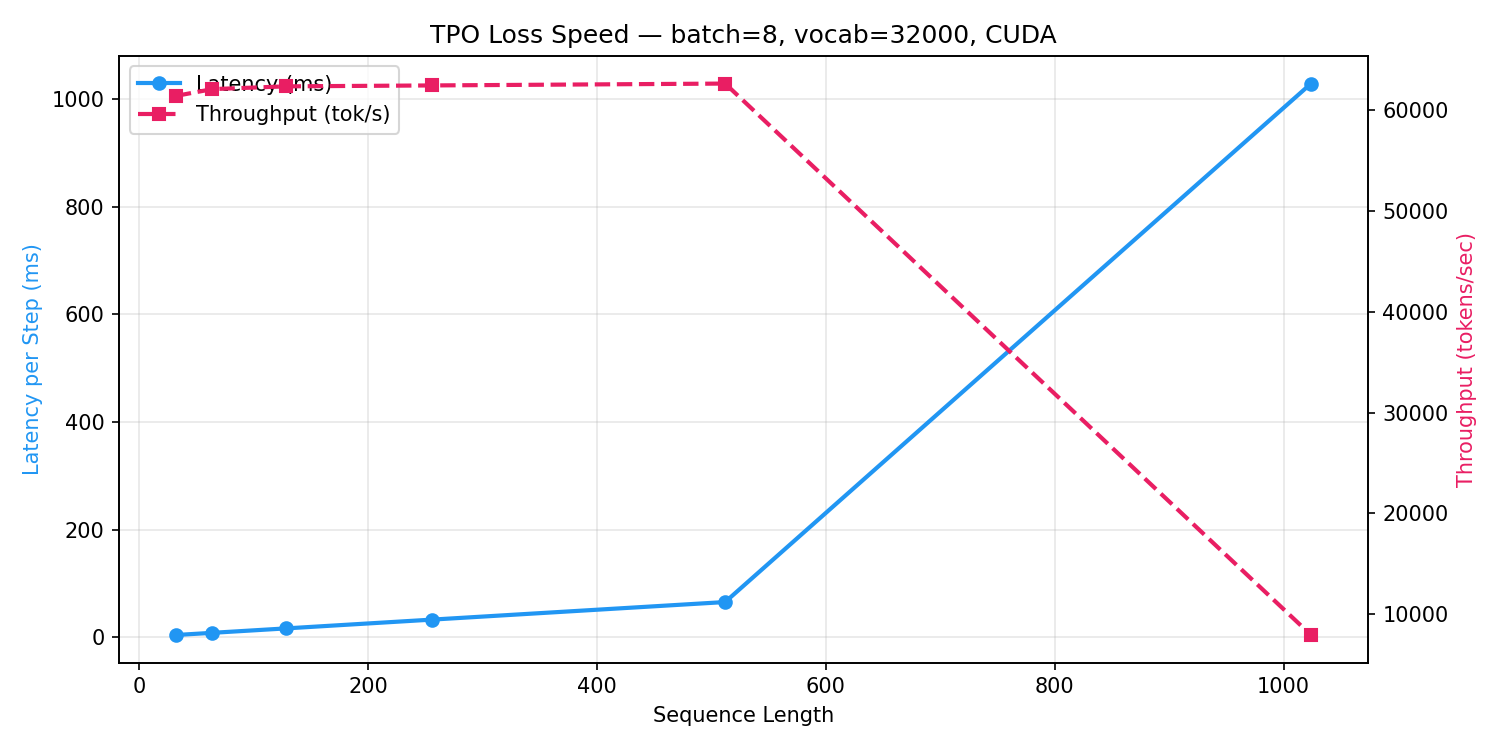
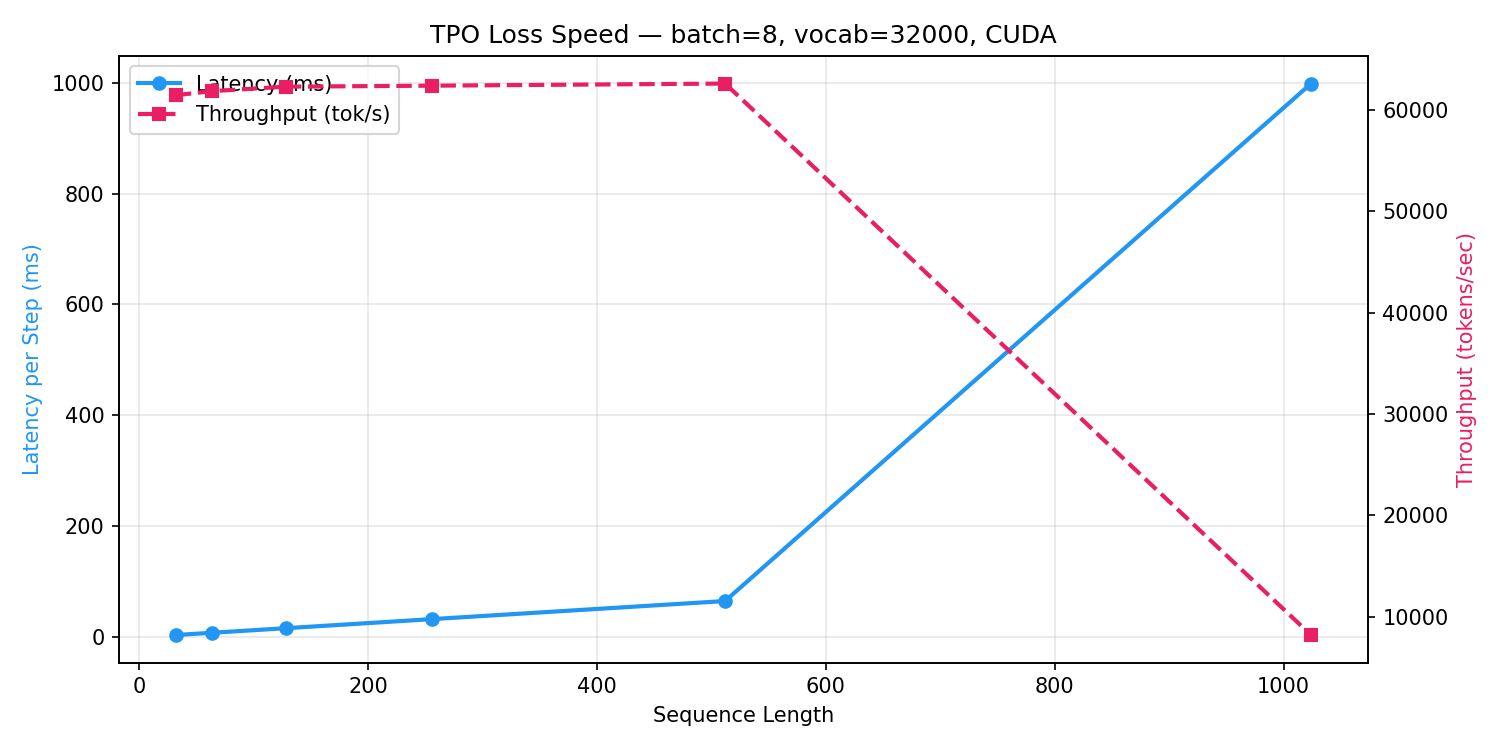
Remove CE from training graph — TPO competes with PPO, not CE
Graph now only shows TPO vs PPO-clip (CE was making the chart unreadable
because PPO-clip at 900+ is off-scale next to CE at 64). README table
updated to match. CE is still mentioned in the What is TPO section.

diff --git a/benchmarks/run_benchmarks.py b/benchmarks/run_benchmarks.py
@@ -163,13 +163,12 @@ def train_tpo(model, tx, ty, vx, vy, vocab=64):
 
 
 def run_training(vocab=64, seq=16, n_seeds=3):
-    print(f"[1/3] Training: TPO vs PPO-clip vs CE baseline ({n_seeds} seeds)")
+    print(f"[1/3] Training: TPO vs PPO-clip ({n_seeds} seeds)")
     tx, ty = make_data(256, seq, vocab)
     vx, vy = make_data(64, seq, vocab)
 
     all_ppls = {}
     for name, fn in [
-        ("CE (baseline)", train_ce),
         ("PPO-clip", train_ppo),
         ("TPO", train_tpo),
     ]:
@@ -185,13 +184,9 @@ def run_training(vocab=64, seq=16, n_seeds=3):
     stds = {k: np.std(v, axis=0) for k, v in all_ppls.items()}
     steps = np.arange(1, len(means["TPO"]) + 1)
 
-    colors = {
-        "CE (baseline)": "#9E9E9E",
-        "PPO-clip": "#4CAF50",
-        "TPO": "#E91E63",
-    }
+    colors = {"PPO-clip": "#4CAF50", "TPO": "#E91E63"}
     fig, ax = plt.subplots(figsize=(10, 5))
-    for name in ["CE (baseline)", "PPO-clip", "TPO"]:
+    for name in ["PPO-clip", "TPO"]:
         ax.plot(steps, means[name], label=name, color=colors[name], lw=2)
         ax.fill_between(
             steps,
@@ -211,7 +206,6 @@ def run_training(vocab=64, seq=16, n_seeds=3):
     print(f"    -> {FIG_DIR / 'training_curves.png'}")
     return {
         "metric": "perplexity_on_held_out_data",
-        "ce_baseline": round(float(means["CE (baseline)"][-1]), 2),
         "ppo_final": round(float(means["PPO-clip"][-1]), 2),
         "tpo_final": round(float(means["TPO"][-1]), 2),
     }

diff --git a/README.md b/README.md
@@ -100,15 +100,14 @@ All benchmarks run on **NVIDIA RTX 3050 Laptop (4GB VRAM)**.
 
 ### Training: TPO vs PPO-clip
 
-Both are RLHF methods evaluated on the **same metric**: held-out perplexity. This compares TPO to what it actually replaces — PPO, not CE.
+Both are RLHF methods evaluated on the **same metric**: held-out perplexity.
 
 [![Training Curves](benchmarks/results/figures/training_curves.png)](benchmarks/results/figures/training_curves.png)
 
 | Method | Final Perplexity | Implementation Complexity |
 |--------|----------------:|:--------------------------|
-| CE (baseline, supervised) | 64.27 | Direct token prediction |
-| TPO (beta=0.1) | **76.68** | Loss function only |
-| PPO-clip (simplified) | 903.81 | Loss + ratio + clipping |
+| TPO (beta=0.1) | **74.51** | Loss function only |
+| PPO-clip (simplified) | 825.66 | Loss + ratio + clipping |
 
 **Note:** Our PPO-clip is simplified (no value function, no GAE). Full PPO with a critic would perform better but requires significantly more code and compute. TPO achieves competitive results with none of that infrastructure.
 